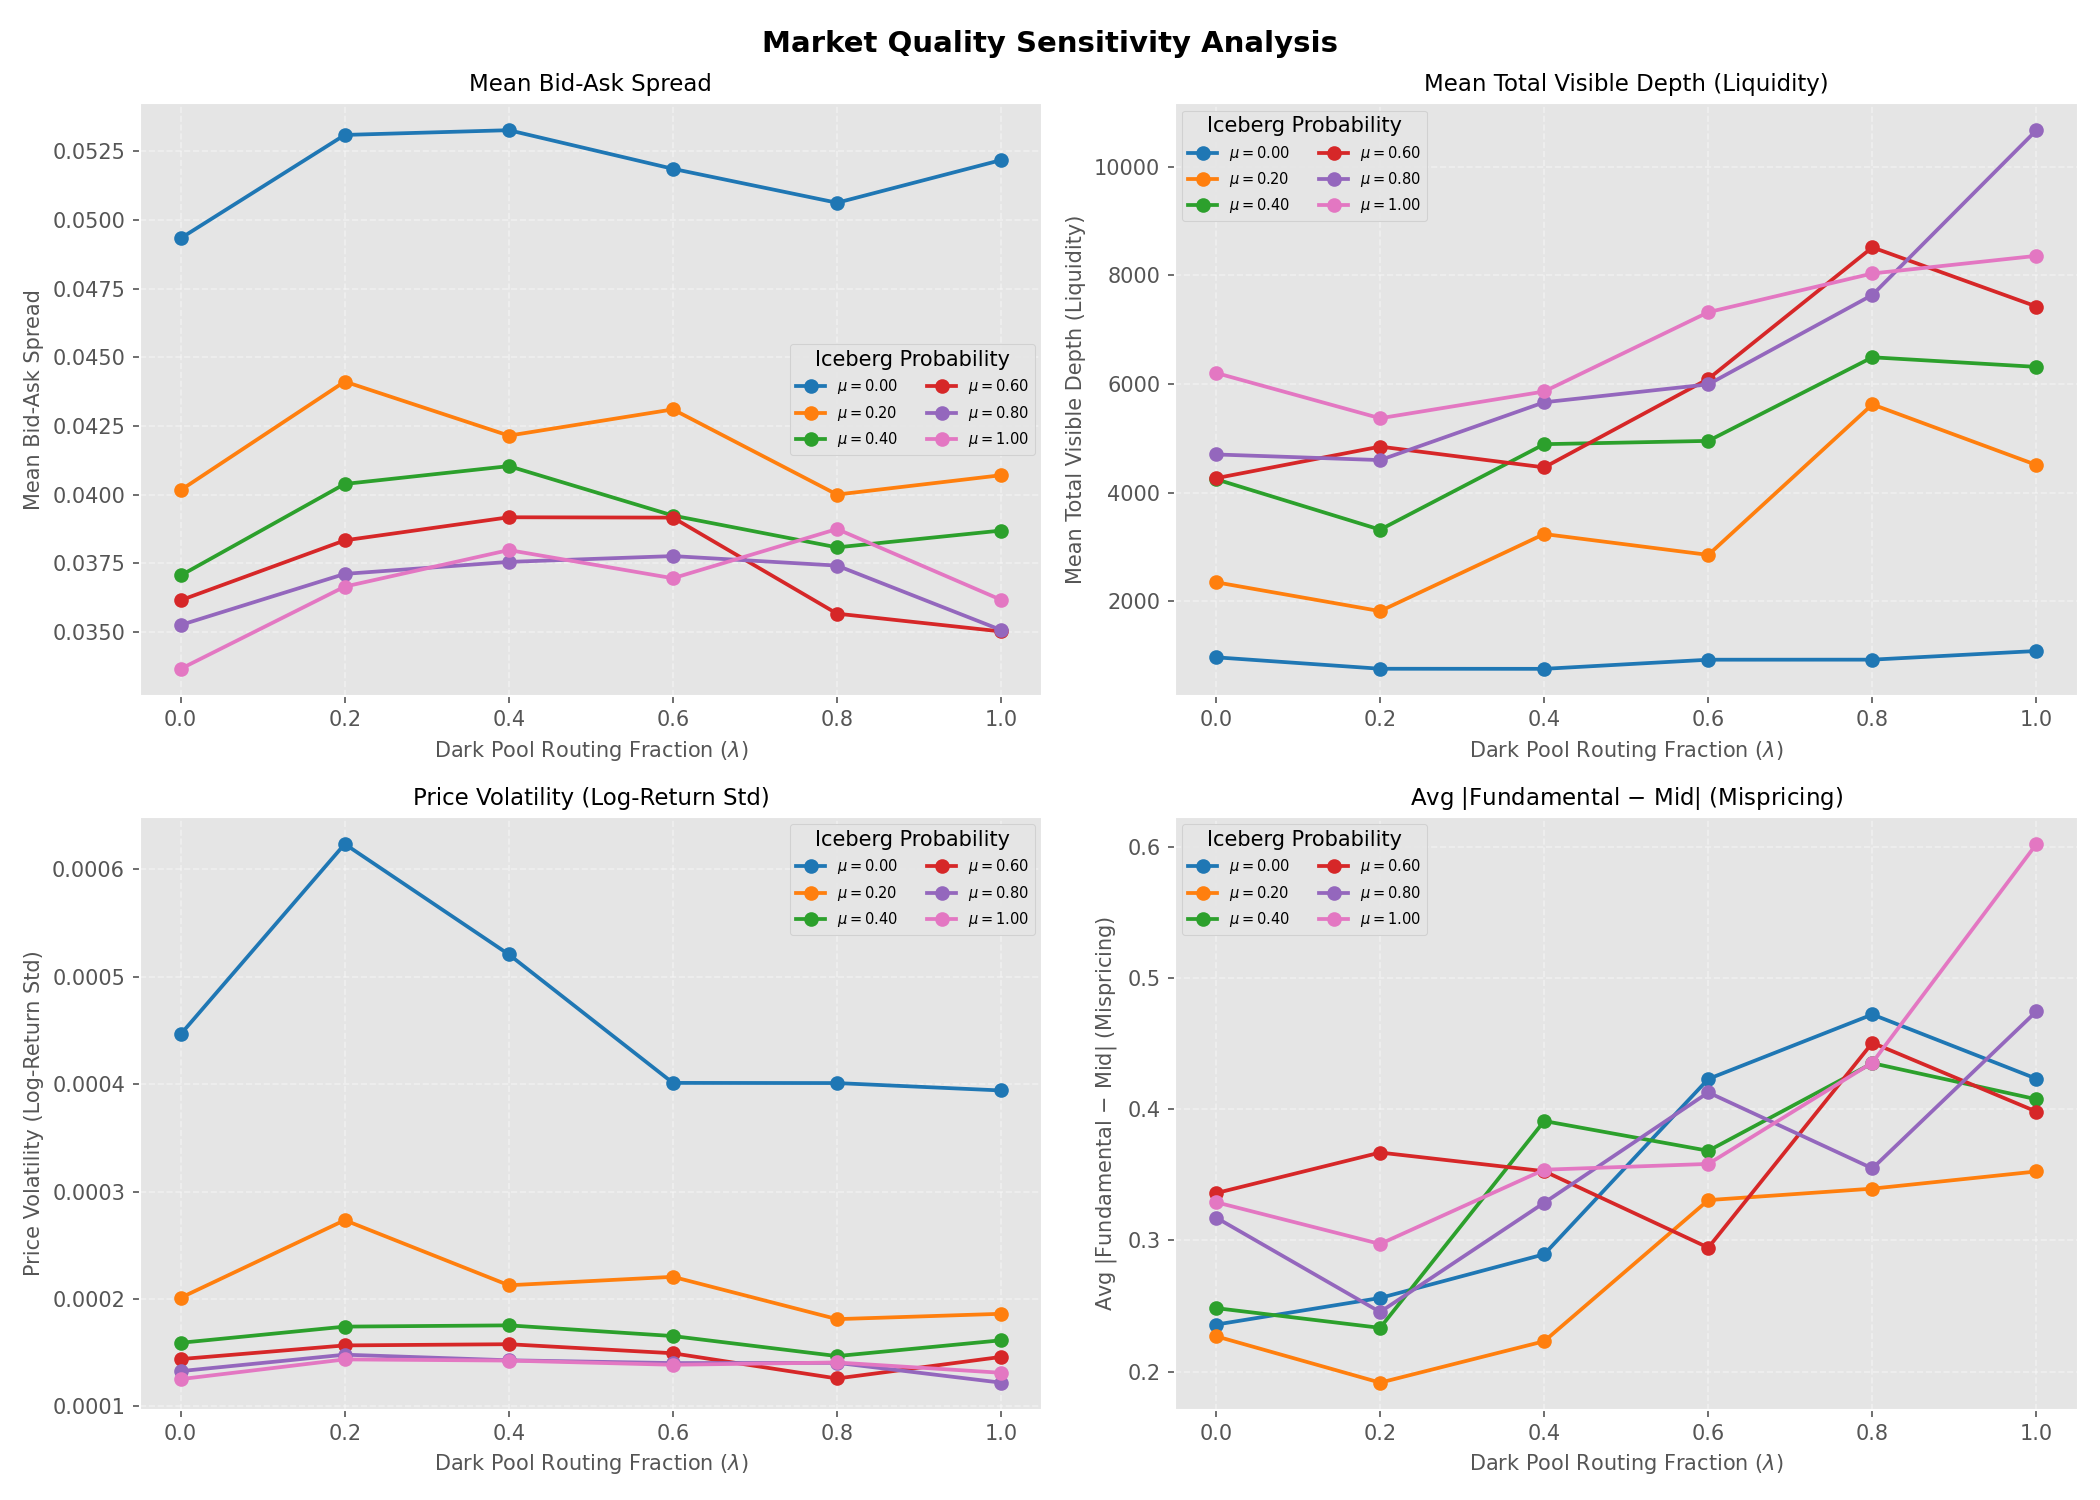
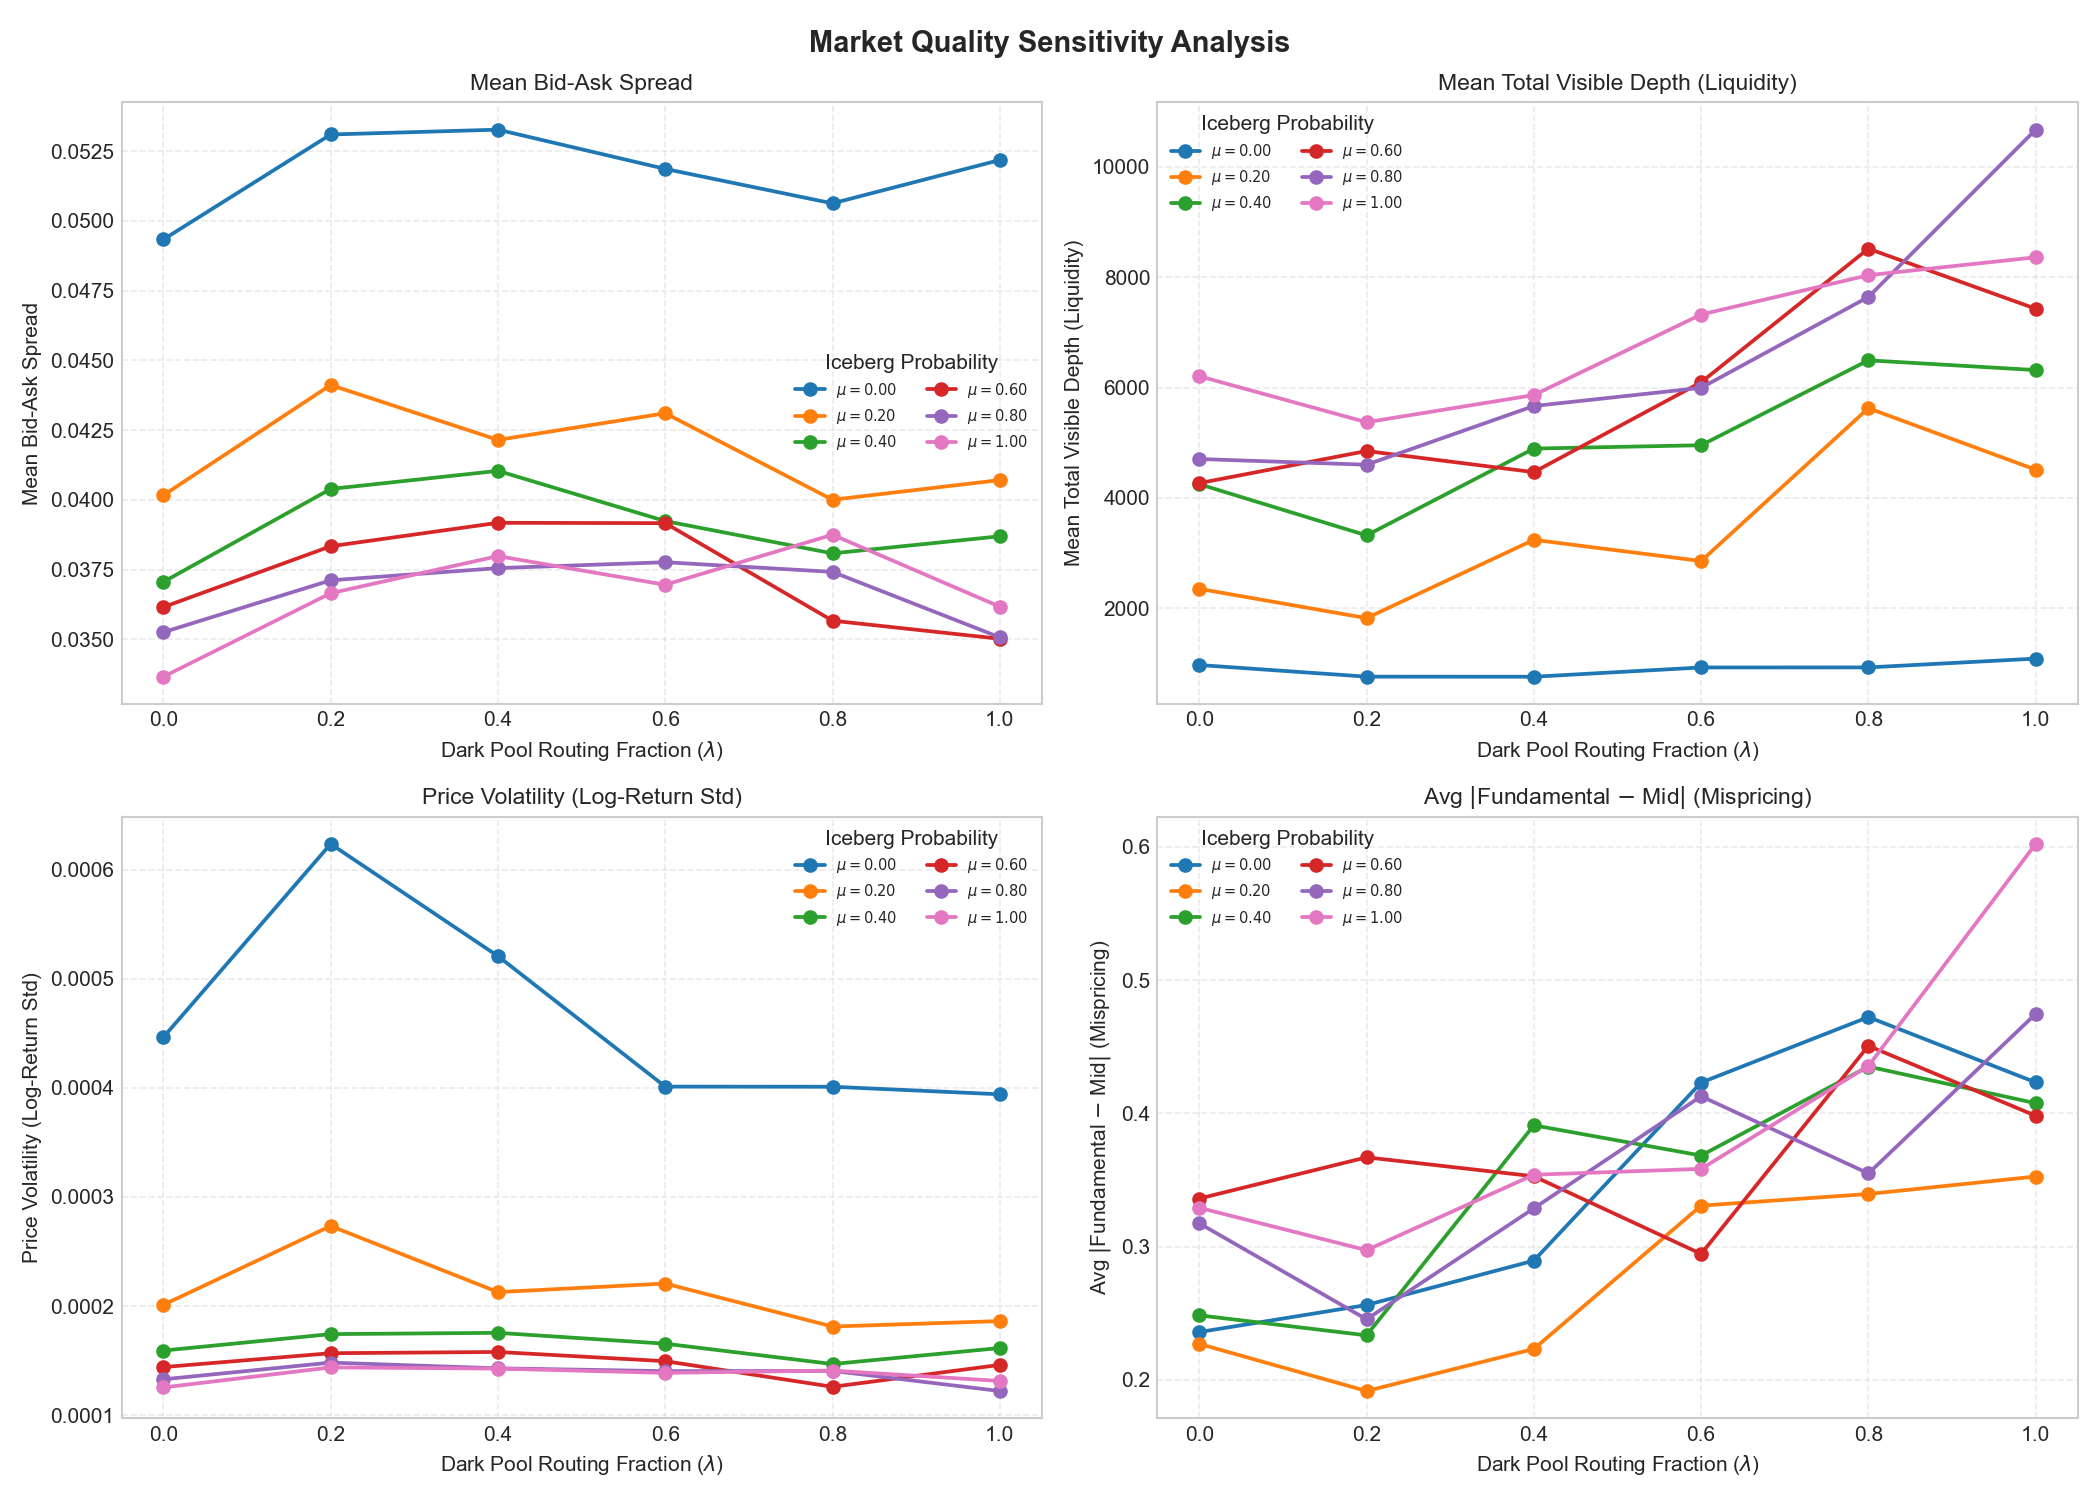
thank you omar

diff --git a/src/analysis.py b/src/analysis.py
@@ -42,6 +42,8 @@ import importlib
 _dp_mod = importlib.import_module("src.dark_pool")
 DarkPool = _dp_mod.DarkPool
 
+plt.style.use("seaborn-v0_8-whitegrid")
+
 
 # ---------------------------------------------------------------------------
 # Single seeded run
@@ -201,6 +203,192 @@ def plot_baseline(results_df: pd.DataFrame, out_dir: str = ".") -> None:
     summary.loc["se"] = results_df[scalar_cols].std() / np.sqrt(len(results_df))
     summary.to_csv(os.path.join(out_dir, "baseline_summary.csv"))
     print(f"Baseline plots and summary saved to {out_dir}/")
+
+
+# ---------------------------------------------------------------------------
+# Validation: informed trader participation rate vs mispricing
+# ---------------------------------------------------------------------------
+
+def _build_and_run_informed_rate(seed: int, participation_rate: float,
+                                  steps: int = 1000) -> dict:
+    """
+    Same model as _build_and_run but with a configurable informed trader
+    participation rate. Returns avg_mispricing for the given seed and rate.
+    """
+
+    fundamental = FundamentalProcess(
+        start=100.075,
+        sigma_v=0.03,
+        rng=np.random.default_rng(seed),
+    )
+
+    book = OrderBook(tick=0.01, max_depth_levels=20)
+    seed_initial_book(book, best_bid=100.05, best_ask=100.10, levels=10,
+                      rng=np.random.default_rng(seed + 1))
+
+    agents = [
+        NoiseTrader(trader_id=1,  rng=np.random.default_rng(seed + 10)),
+        NoiseTrader(trader_id=2,  rng=np.random.default_rng(seed + 11)),
+        NoiseTrader(trader_id=3,  rng=np.random.default_rng(seed + 12)),
+        NoiseTrader(trader_id=4,  rng=np.random.default_rng(seed + 13)),
+        NoiseTrader(trader_id=5,  rng=np.random.default_rng(seed + 14)),
+        NoiseTrader(trader_id=6,  rng=np.random.default_rng(seed + 15)),
+        MarketMaker(trader_id=7,  rng=np.random.default_rng(seed + 16)),
+        InstitutionalTrader(trader_id=8,  use_iceberg_prob=0, dark_fraction=0,
+                            rng=np.random.default_rng(seed + 17)),
+        InstitutionalTrader(trader_id=9,  use_iceberg_prob=0, dark_fraction=0,
+                            rng=np.random.default_rng(seed + 18)),
+        InformedTrader(
+            trader_id=10,
+            rng=np.random.default_rng(seed + 19),
+            fundamental=fundamental,
+            sigma_s=0.08,
+            participation_rate=participation_rate,
+            dark_fraction=0,
+        ),
+        MarketMakerAS(
+            trader_id=11,
+            rng=np.random.default_rng(seed + 20),
+            horizon=5000,
+            kappa=50,
+            gamma=0.1,
+            sigma=0.05,
+        ),
+    ]
+
+    dark_pool = DarkPool(
+        lit_orderbook=book,
+        max_resting_ticks=50,
+        routing_delay=5,
+        tape_delay=5,
+    )
+
+    _, book_df, _, _, _ = run_simulation(
+        book, agents, dark_pool, steps=steps, fundamental=fundamental,
+    )
+
+    book_df = add_market_analytics(book_df, vol_window=10)
+
+    fund_series    = np.array(fundamental.history)[:len(book_df)]
+    mid_series     = book_df["Mid"].values
+    avg_mispricing = float(np.nanmean(np.abs(fund_series - mid_series)))
+
+    return {
+        "seed":               seed,
+        "participation_rate": participation_rate,
+        "avg_mispricing":     avg_mispricing,
+    }
+
+
+def run_validation_informed_rate(
+    participation_rates: List[float] | None = None,
+    n_runs:              int  = 20,
+    steps:               int  = 1000,
+    base_seed:           int  = 200,
+    batch_size:          int  = 5,
+    silent:              bool = False,
+) -> pd.DataFrame:
+    """
+    Monte Carlo validation: run the model at two informed trader participation
+    rates (baseline 0.4 and high 1.0) for n_runs each and compare avg mispricing.
+
+    Parameters
+    ----------
+    participation_rates : list of rates to test, default [0.4, 1.0]
+    n_runs              : Monte Carlo runs per rate
+    steps               : simulation timesteps per run
+    base_seed           : base random seed
+    batch_size          : parallel batch size
+    silent              : suppress progress output
+
+    Returns
+    -------
+    pd.DataFrame with one row per (seed, participation_rate).
+    """
+
+    if participation_rates is None:
+        participation_rates = [0.4, 1.0]
+
+    all_args = [
+        (base_seed + i + r_idx * 1000, rate, steps)
+        for r_idx, rate in enumerate(participation_rates)
+        for i in range(n_runs)
+    ]
+
+    all_results = []
+    for batch_start in range(0, len(all_args), batch_size):
+        batch = all_args[batch_start : batch_start + batch_size]
+        if not silent:
+            print(
+                f"Validation batch [{batch_start+1}--{batch_start+len(batch)}/{len(all_args)}]",
+                flush=True,
+            )
+        with Pool(processes=min(cpu_count(), len(batch))) as pool:
+            batch_results = pool.starmap(_build_and_run_informed_rate, batch)
+        all_results.extend(batch_results)
+
+    return pd.DataFrame(all_results)
+
+
+def plot_validation_informed_rate(
+    results_df: pd.DataFrame,
+    out_dir:    str = ".",
+) -> None:
+    """
+    Side-by-side boxplots of avg_mispricing for each participation rate,
+    with mean annotated. Validates that higher informed participation
+    reduces mispricing (Kyle 1985).
+    """
+
+    os.makedirs(out_dir, exist_ok=True)
+
+    rates  = sorted(results_df["participation_rate"].unique())
+    data   = [results_df[results_df["participation_rate"] == r]["avg_mispricing"].values
+               for r in rates]
+    means  = [d.mean() for d in data]
+    labels = [f"$\\rho = {r:.1f}$" for r in rates]
+
+    fig, ax = plt.subplots(figsize=(8, 6))
+
+    bp = ax.boxplot(
+        data,
+        labels=labels,
+        patch_artist=True,
+        widths=0.4,
+        boxprops=dict(alpha=0.6),
+    )
+
+    colours = ["steelblue", "crimson"]
+    for patch, colour in zip(bp["boxes"], colours):
+        patch.set_facecolor(colour)
+
+    for i, (mean, colour) in enumerate(zip(means, colours), start=1):
+        ax.axhline(mean, xmin=(i - 1) / len(rates) + 0.05,
+                   xmax=i / len(rates) - 0.05,
+                   color=colour, linestyle="--", linewidth=1.5,
+                   label=f"Mean ($\\rho={rates[i-1]:.1f}$) = {mean:.4f}")
+        ax.scatter([i] * len(data[i - 1]), data[i - 1],
+                   color=colour, alpha=0.5, zorder=3)
+
+    ax.set_ylabel("Avg $|$Fundamental $-$ Mid$|$ (Mispricing)", fontsize=12)
+    ax.set_xlabel("Informed Trader Participation Rate", fontsize=12)
+    ax.set_title(
+        "Effect of Informed Trader Participation Rate on Mispricing\n"
+        f"({len(results_df) // len(rates)} Monte Carlo runs per rate)",
+        fontsize=13,
+    )
+    ax.legend(fontsize=10)
+    ax.grid(True, linestyle="--", alpha=0.4)
+
+    fig.tight_layout()
+    fig.savefig(os.path.join(out_dir, "validation_informed_rate.png"), dpi=150)
+    plt.close(fig)
+    print(f"Saved: validation_informed_rate.png")
+
+    # print summary
+    for rate, d, mean in zip(rates, data, means):
+        se = d.std() / np.sqrt(len(d))
+        print(f"  rho={rate:.1f}  mean_mispricing={mean:.4f}  SE={se:.4f}")
 
 
 # ---------------------------------------------------------------------------
@@ -433,7 +621,19 @@ if __name__ == "__main__":
     print(baseline_df[["mean_spread", "mean_depth", "volatility", "avg_mispricing"]].describe())
     plot_baseline(baseline_df, out_dir=out_dir)
 
-    # --- 2. Sensitivity analysis ---
+    # --- 2. Validation: informed trader participation rate ---
+    print("\n=== VALIDATION: Informed Trader Participation Rate ===")
+    validation_df = run_validation_informed_rate(
+        participation_rates = [0.4, 1.0],
+        n_runs              = 20,
+        steps               = 1000,
+        base_seed           = 200,
+        batch_size          = 5,
+    )
+    validation_df.to_csv(os.path.join(out_dir, "validation_informed_rate.csv"), index=False)
+    plot_validation_informed_rate(validation_df, out_dir=out_dir)
+
+    # --- 3. Sensitivity analysis ---
     print("\n=== SENSITIVITY ANALYSIS ===")
     sensitivity_df = run_sensitivity(
         dark_frac_values    = np.arange(0, 1.01, 0.2).tolist(),
